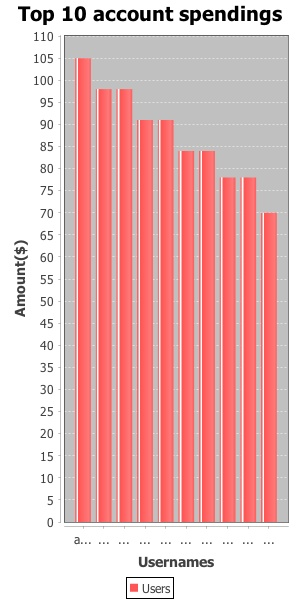
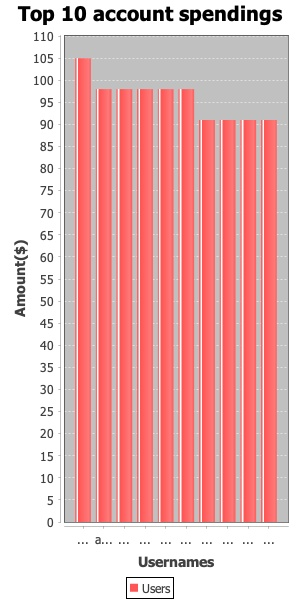
Fix chart generation

diff --git a/src/Chart.java b/src/Chart.java
@@ -136,7 +136,8 @@ public class Chart {
         while (countIndex > 0)
         {
             try{
-                chart_dataset.addValue( amount.get(index++), "Users" , usernames.get(index++) );
+                chart_dataset.addValue( amount.get(index), "Users" , usernames.get(index) );
+                index++;
                 countIndex--;
             } catch (Exception e) {
                 // Count bigger than dataset results
@@ -206,7 +207,8 @@ public class Chart {
         while (countIndex > 0)
         {
             try{
-                chart_dataset.addValue( sum.get(index++), "Users" , consumable_id.get(index++) );
+                chart_dataset.addValue( sum.get(index), "Users" , consumable_id.get(index) );
+                index++;
                 countIndex--;
             } catch (Exception e) {
                 // Count bigger than dataset results
@@ -277,7 +279,8 @@ public class Chart {
         while (countIndex > 0)
         {
             try{
-                chart_dataset.addValue( qty.get(index++), "Users" , ingredientName.get(index++) );
+                chart_dataset.addValue( qty.get(index), "Users" , ingredientName.get(index) );
+                index++;
                 countIndex--;
             } catch (Exception e) {
                 // Count bigger than dataset results
